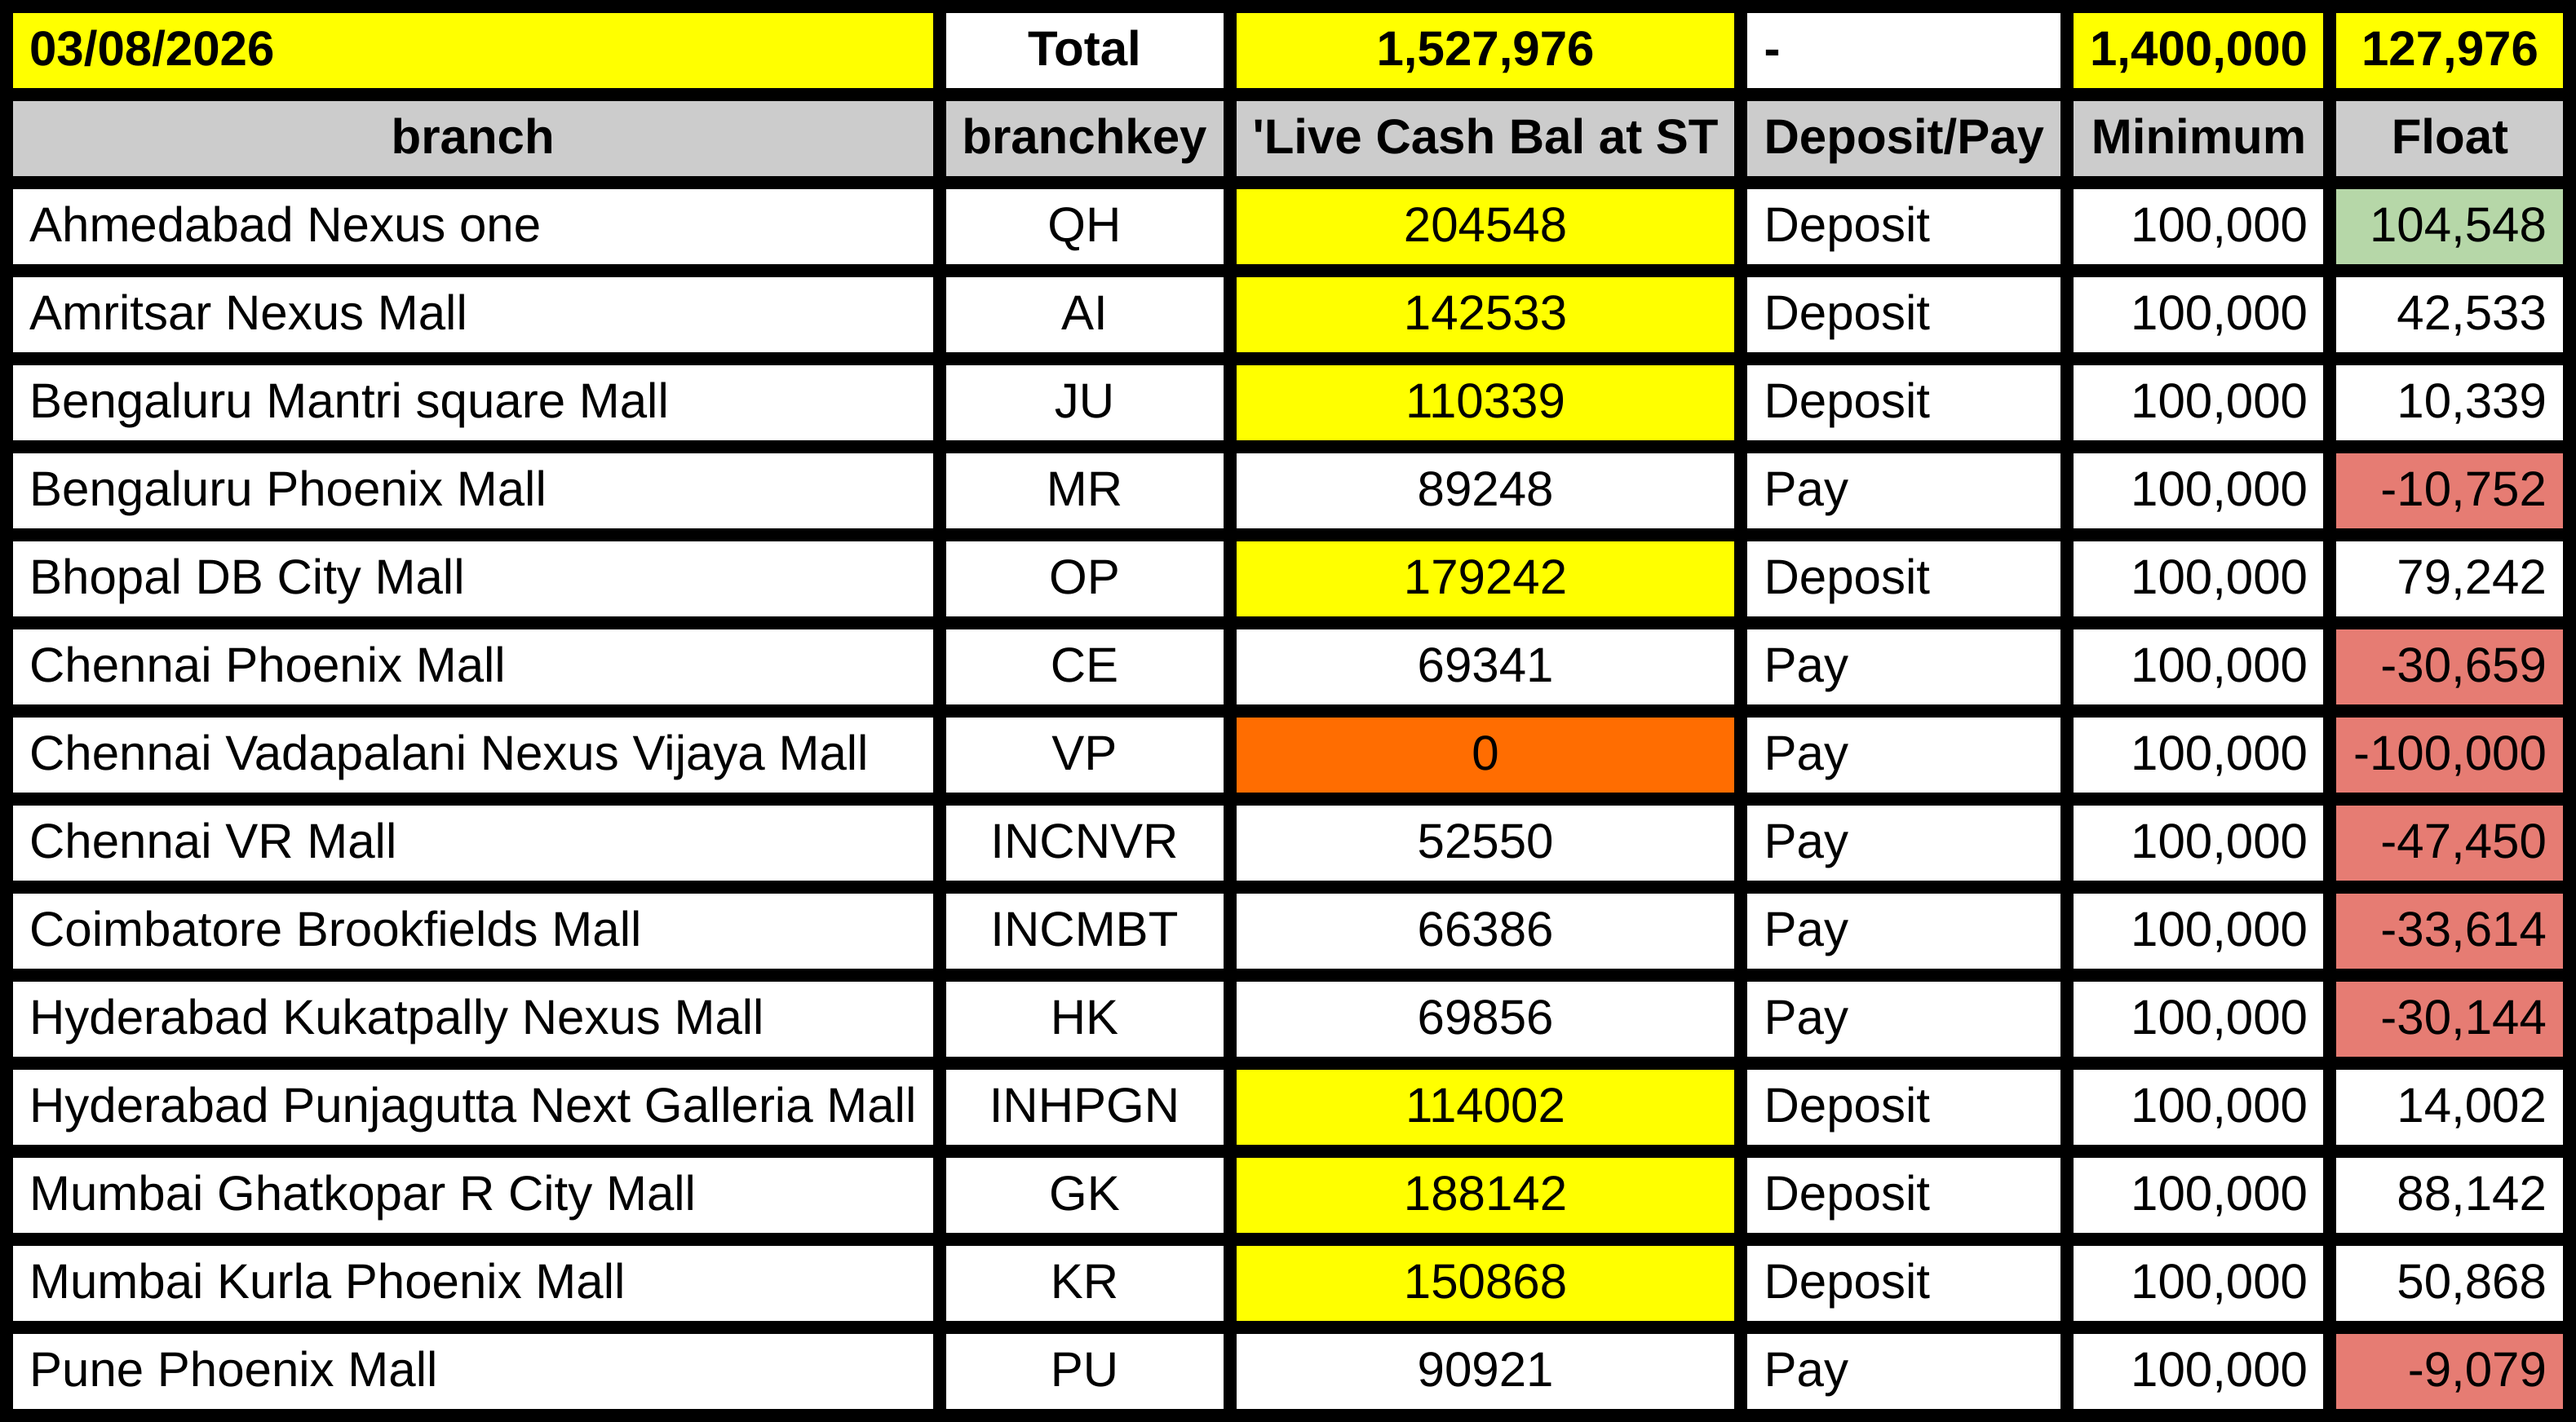
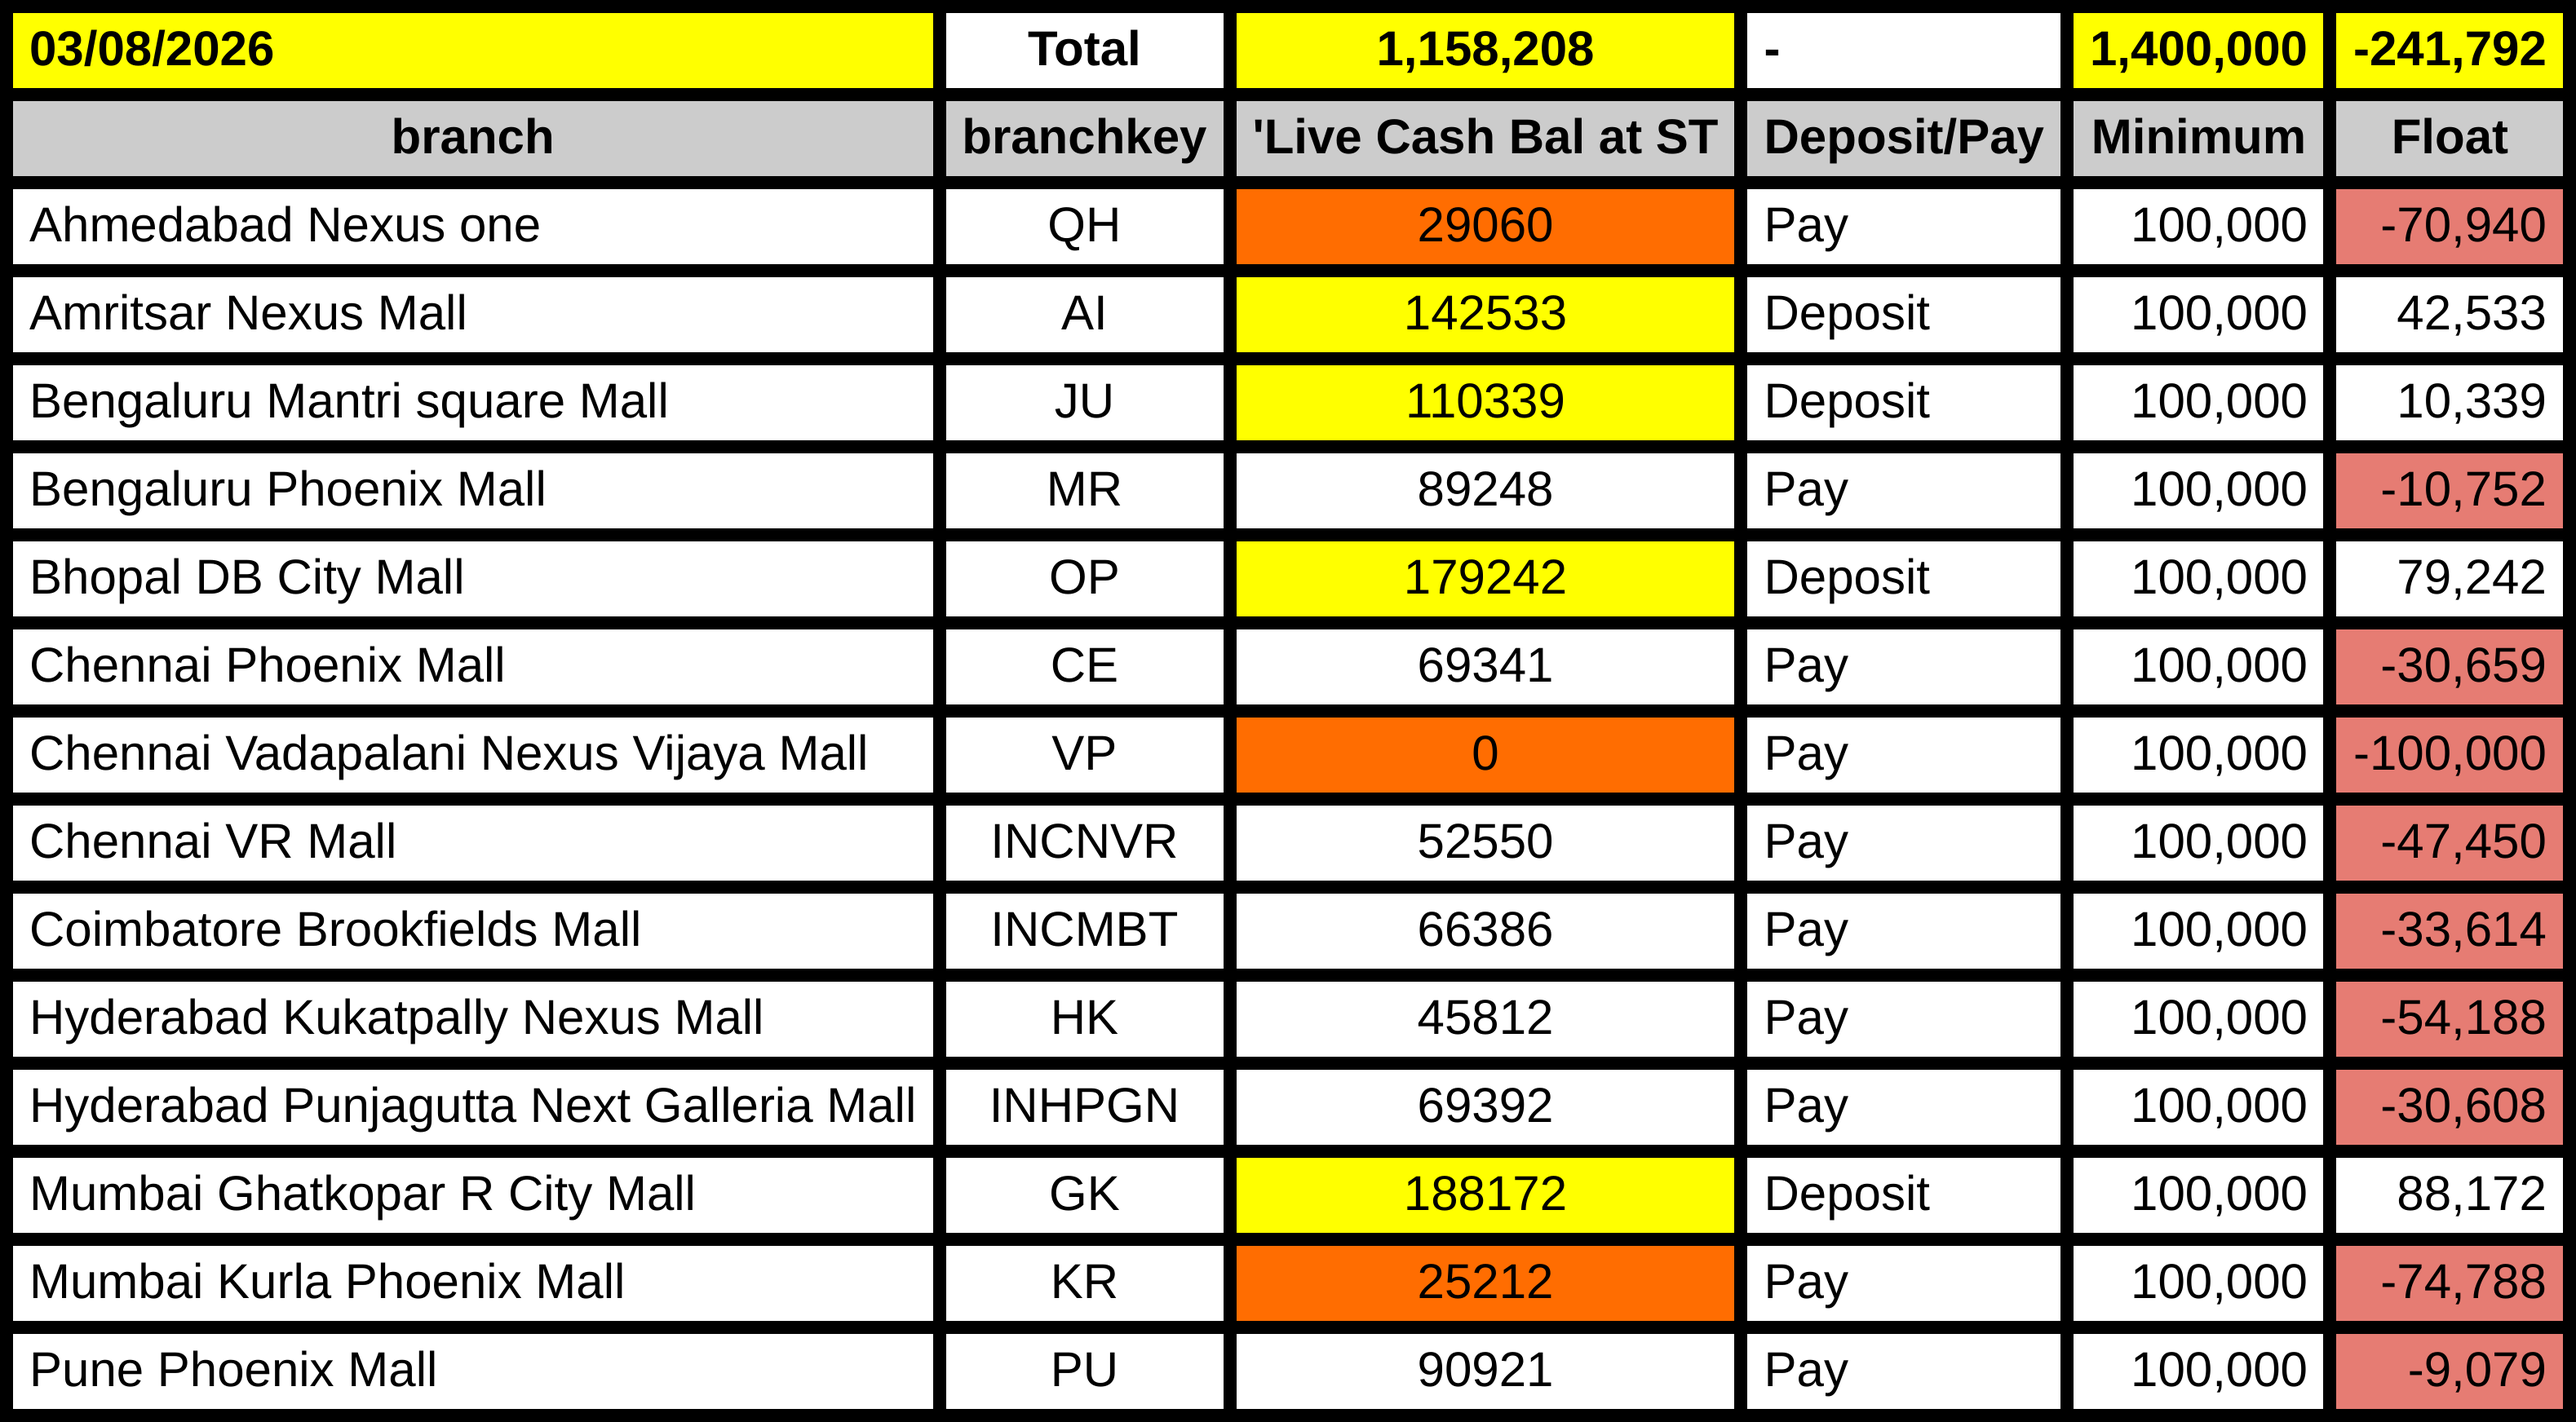
deploy: 88b726541f224420cf830c439a25e2e435cb2c4a

diff --git a/table.html b/table.html
@@ -49,7 +49,7 @@
           font-family: Arial, sans-serif;
           font-size: 30px;
           white-space: nowrap;
-        ">1,527,976</td>
+        ">1,158,208</td>
       
         <td style="
           background-color: #ffffff;
@@ -91,7 +91,7 @@
           font-family: Arial, sans-serif;
           font-size: 30px;
           white-space: nowrap;
-        ">127,976</td>
+        ">-241,792</td>
       </tr><tr>
         <td style="
           background-color: #cccccc;
@@ -206,7 +206,7 @@
         ">QH</td>
       
         <td style="
-          background-color: #ffff00;
+          background-color: #ff6d01;
           color: #000000;
           font-weight: normal;
           font-style: normal;
@@ -217,7 +217,7 @@
           font-family: Arial, sans-serif;
           font-size: 30px;
           white-space: nowrap;
-        ">204548</td>
+        ">29060</td>
       
         <td style="
           background-color: #ffffff;
@@ -231,7 +231,7 @@
           font-family: Arial, sans-serif;
           font-size: 30px;
           white-space: nowrap;
-        ">Deposit</td>
+        ">Pay</td>
       
         <td style="
           background-color: #ffffff;
@@ -248,7 +248,7 @@
         ">100,000</td>
       
         <td style="
-          background-color: #b6d7a8;
+          background-color: #e67c73;
           color: #000000;
           font-weight: normal;
           font-style: normal;
@@ -259,7 +259,7 @@
           font-family: Arial, sans-serif;
           font-size: 30px;
           white-space: nowrap;
-        ">104,548</td>
+        ">-70,940</td>
       </tr><tr>
         <td style="
           background-color: #ffffff;
@@ -973,7 +973,7 @@
           font-family: Arial, sans-serif;
           font-size: 30px;
           white-space: nowrap;
-        ">69856</td>
+        ">45812</td>
       
         <td style="
           background-color: #ffffff;
@@ -1015,7 +1015,7 @@
           font-family: Arial, sans-serif;
           font-size: 30px;
           white-space: nowrap;
-        ">-30,144</td>
+        ">-54,188</td>
       </tr><tr>
         <td style="
           background-color: #ffffff;
@@ -1046,7 +1046,7 @@
         ">INHPGN</td>
       
         <td style="
-          background-color: #ffff00;
+          background-color: #ffffff;
           color: #000000;
           font-weight: normal;
           font-style: normal;
@@ -1057,7 +1057,7 @@
           font-family: Arial, sans-serif;
           font-size: 30px;
           white-space: nowrap;
-        ">114002</td>
+        ">69392</td>
       
         <td style="
           background-color: #ffffff;
@@ -1071,7 +1071,7 @@
           font-family: Arial, sans-serif;
           font-size: 30px;
           white-space: nowrap;
-        ">Deposit</td>
+        ">Pay</td>
       
         <td style="
           background-color: #ffffff;
@@ -1088,7 +1088,7 @@
         ">100,000</td>
       
         <td style="
-          background-color: #ffffff;
+          background-color: #e67c73;
           color: #000000;
           font-weight: normal;
           font-style: normal;
@@ -1099,7 +1099,7 @@
           font-family: Arial, sans-serif;
           font-size: 30px;
           white-space: nowrap;
-        ">14,002</td>
+        ">-30,608</td>
       </tr><tr>
         <td style="
           background-color: #ffffff;
@@ -1141,7 +1141,7 @@
           font-family: Arial, sans-serif;
           font-size: 30px;
           white-space: nowrap;
-        ">188142</td>
+        ">188172</td>
       
         <td style="
           background-color: #ffffff;
@@ -1183,7 +1183,7 @@
           font-family: Arial, sans-serif;
           font-size: 30px;
           white-space: nowrap;
-        ">88,142</td>
+        ">88,172</td>
       </tr><tr>
         <td style="
           background-color: #ffffff;
@@ -1214,7 +1214,7 @@
         ">KR</td>
       
         <td style="
-          background-color: #ffff00;
+          background-color: #ff6d01;
           color: #000000;
           font-weight: normal;
           font-style: normal;
@@ -1225,7 +1225,7 @@
           font-family: Arial, sans-serif;
           font-size: 30px;
           white-space: nowrap;
-        ">150868</td>
+        ">25212</td>
       
         <td style="
           background-color: #ffffff;
@@ -1239,7 +1239,7 @@
           font-family: Arial, sans-serif;
           font-size: 30px;
           white-space: nowrap;
-        ">Deposit</td>
+        ">Pay</td>
       
         <td style="
           background-color: #ffffff;
@@ -1256,7 +1256,7 @@
         ">100,000</td>
       
         <td style="
-          background-color: #ffffff;
+          background-color: #e67c73;
           color: #000000;
           font-weight: normal;
           font-style: normal;
@@ -1267,7 +1267,7 @@
           font-family: Arial, sans-serif;
           font-size: 30px;
           white-space: nowrap;
-        ">50,868</td>
+        ">-74,788</td>
       </tr><tr>
         <td style="
           background-color: #ffffff;
